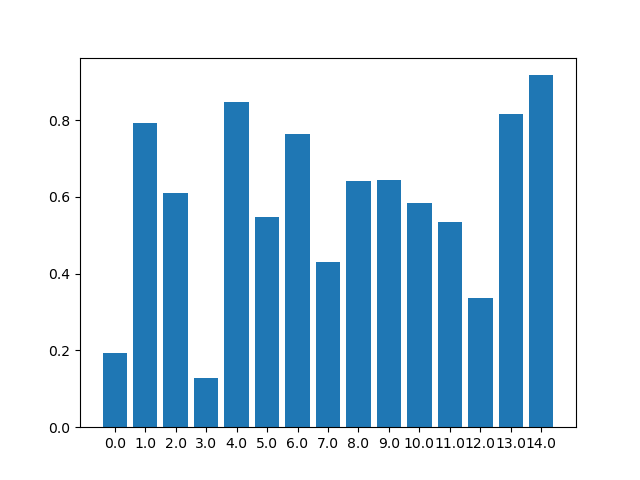
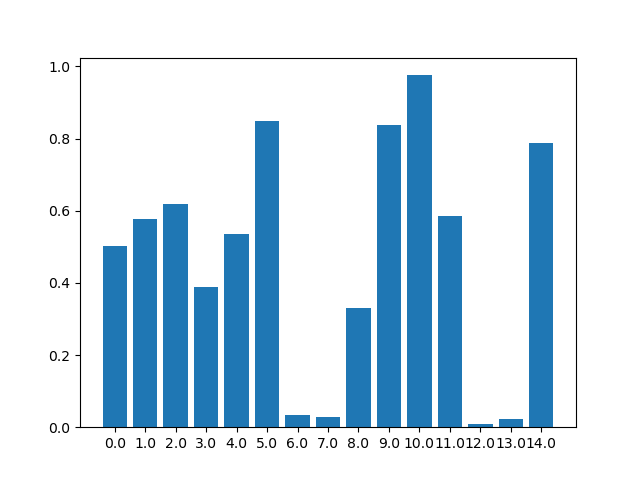
first test done

diff --git a/tests/plotting_test_files/test_bar_plot.py b/tests/plotting_test_files/test_bar_plot.py
@@ -17,40 +17,40 @@ class TestPlotting:
         xlabel = "bins"
         ylabel = "height"
 
+        #Test with default plot settings
+        bp1 = freud.plot.bar_plot(x, height)
+        assert bp1.xaxis and bp1.yaxis != None
+        assert len(bp1.get_title()) == 0
+        assert len(bp1.get_xlabel()) == 0
+        assert len(bp1.get_ylabel()) == 0
+        assert bp1.get_xticks().all() == x.all()
+        assert len(bp1.get_xticklabels()) == len(x)
+        
+        plt.savefig("plot.png")
+        
+        #Test with ax already created
         fig = plt.figure()
         ax = fig.subplots()
-        ax.bar(x=x, height=height)
-        ax.set_title(title)
-        ax.set_xlabel(xlabel)
-        ax.set_ylabel(ylabel)
-        ax.set_xticks(x)
-        ax.set_xticklabels(x)
         
-        bp1 = freud.plot.bar_plot(x, height)
-        plt.savefig("plot.png")
-
-        #This one isn't working lol
         bp2 = freud.plot.bar_plot(x, height, title=title, xlabel=xlabel, ylabel=ylabel, ax=ax)
-        bp2_title = ax.get_title()
-
-        bp2_title = ax.get_title()
-        if bp2_title != None:
-            print(bp2_title)
+        assert bp2.xaxis and bp2.yaxis != None
+        assert bp2.get_title() == title
+        assert bp2.get_xlabel() == xlabel
+        assert bp2.get_ylabel() == ylabel
+        assert bp2.get_xticks().all() == x.all()
+        assert len(bp2.get_xticklabels()) == len(x)
         
-        #assert bp2_title == title
-        
-
         plt.savefig("plot2.png")
+
+        #Test with no default plot settings
         bp3 = freud.plot.bar_plot(x, height, title=title, xlabel=xlabel, ylabel=ylabel)
+        assert bp3.xaxis and bp3.yaxis != None
+        assert bp3.get_title() == title
+        assert bp3.get_xlabel() == xlabel
+        assert bp3.get_ylabel() == ylabel
+        assert bp3.get_xticks().all() == x.all()
+        assert len(bp3.get_xticklabels()) == len(x)
         plt.savefig("plot3.png")
-
-        #with pytest.raises(AttributeError):
-            # bp1 != None
-            # bp2 != None
-            # bp3 != None
-
-
-
 
 
 test = TestPlotting()

diff --git a/freud/plot.py b/freud/plot.py
@@ -226,7 +226,7 @@ def bar_plot(x, height, title=None, xlabel=None, ylabel=None, ax=None):
     if ax is None:
         fig = plt.figure()
         ax = fig.subplots()
-
+    
     ax.bar(x=x, height=height)
     ax.set_title(title)
     ax.set_xlabel(xlabel)